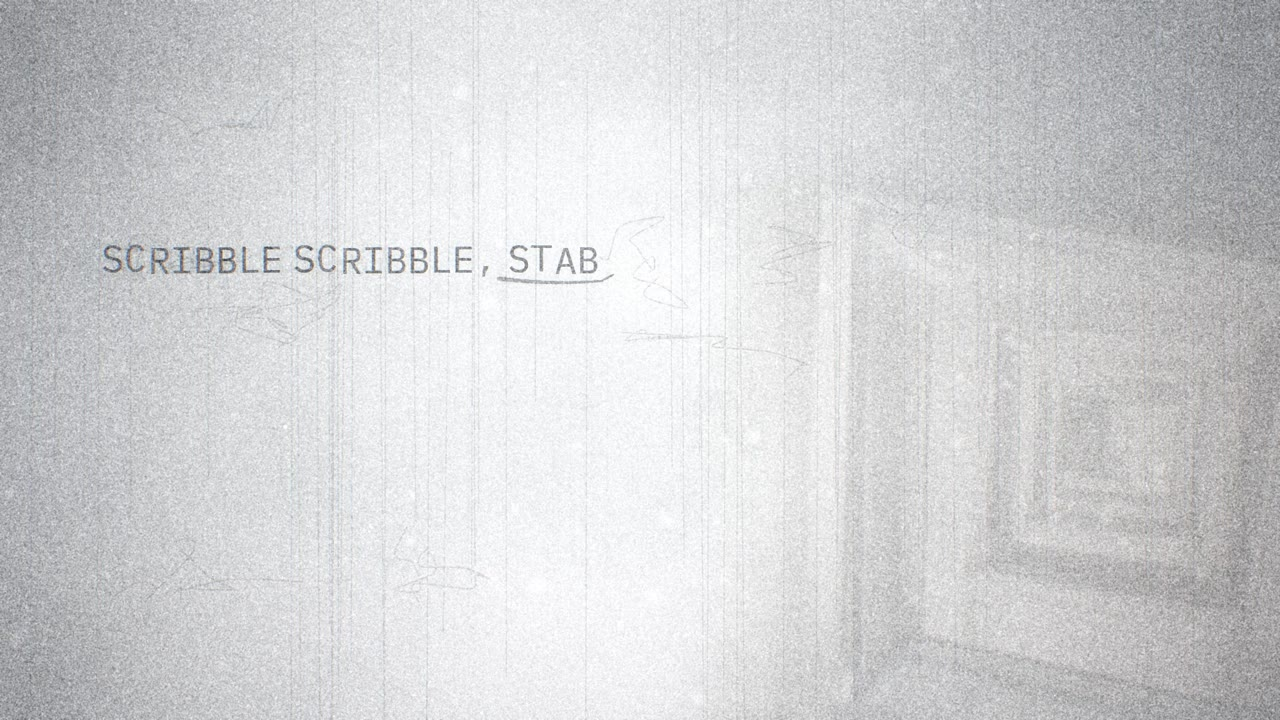
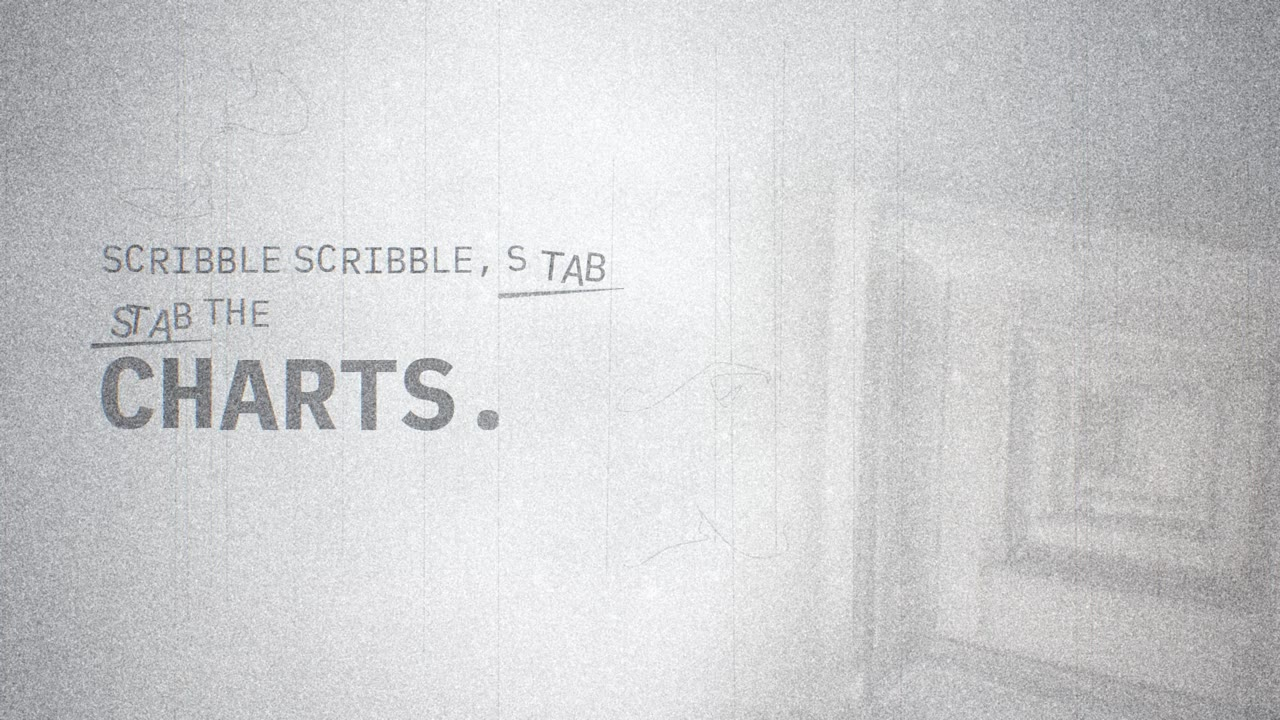
Storyboard: White Coats I with hammered stabs and pencil slashes
Claude-Session: https://claude.ai/code/session_013aPae8dR11r7xw8o95d9Yi

diff --git a/storyboard/index.html b/storyboard/index.html
@@ -150,7 +150,7 @@ ol.steps li::marker { font: 600 0.85rem var(--mono); color: var(--ink-2); }
   </video>
   <figcaption><b>White Coats I</b>
     <span class="tc">1:57.1 → 2:31.8 · bars 34–43</span>
-    <span class="note">Revised: &#x27;We&#x27;ve&#x27; now waits for its real entry (2:00.2, after the coats hold &#x27;said&#x27;); each &#x27;stab&#x27; strikes a hard pencil underline beneath the typed STAB, left there like an annotation; in &#x27;We&#x27;ll find out how lost she really is&#x27; LOST is now the held word; &#x27;with time&#x27; has no comma, so the overstruck second &#x27;with time...&#x27; ends on its ellipsis. Unchanged: the coats never move (typed on, still, blinked out); FOUND / LOST and SAFE / NICE pairs; ANYTHING, FIND; her tally surfaces during &#x27;with time&#x27;. <a href="renders/white_coats_i_contact.jpg">Contact sheet</a></span></figcaption>
+    <span class="note">Revised: &#x27;We&#x27;ve&#x27; now waits for its real entry (2:00.2, after the coats hold &#x27;said&#x27;); each &#x27;stab&#x27; is hammered on out of line with the orderly &#x27;scribble scribble&#x27; (letters knocked askew, landing out of rhythm) and a straight pencil slash is struck beneath it, left there like an annotation; in &#x27;We&#x27;ll find out how lost she really is&#x27; LOST is now the held word; &#x27;with time&#x27; has no comma, so the overstruck second &#x27;with time...&#x27; ends on its ellipsis. Unchanged: the coats never move (typed on, still, blinked out); FOUND / LOST and SAFE / NICE pairs; ANYTHING, FIND; her tally surfaces during &#x27;with time&#x27;. <a href="renders/white_coats_i_contact.jpg">Contact sheet</a></span></figcaption>
 </figure>
 <figure class="render" id="render-break_i">
   <video controls playsinline preload="metadata" poster="renders/break_i_poster.jpg" width="1280" height="720">
@@ -378,9 +378,9 @@ ol.steps li::marker { font: 600 0.85rem var(--mono); color: var(--ink-2); }
       <h3>White Coats I</h3><a class="fref" href="#frame-B">Style frame B</a></header>
     <p class="lyr">The white coats said:</p>
     <dl>
-      <dt>Picture</dt><dd>Cold, bright, humming. The coats never move: their words are typed on and stay perfectly still, against her drift. Every “scribble” scrawls through the emulsion; every “stab” strikes a hard pencil underline beneath the typed word, left there like an annotation. While they say “with time” her tally marks surface: their time is her count.</dd>
+      <dt>Picture</dt><dd>Cold, bright, humming. The coats never move: their words are typed on and stay perfectly still, against her drift. Every “scribble” scrawls through the emulsion; every “stab” is hammered on out of line with the orderly scribbles, letters knocked askew, and a pencil slash is struck beneath it, left there like an annotation. While they say “with time” her tally marks surface: their time is her count.</dd>
       <dt>Type</dt><dd>Typed monospace caps. FOUND / LOST and SAFE / NICE set against each other; LOST, ANYTHING and FIND held large; “with time with time...” typed over itself like a typewriter overstrike.</dd>
-      <dt>Sync</dt><dd>Underlines struck on the exact stab attacks; scrawls on the scribbles; nothing pulses on the beat.</dd>
+      <dt>Sync</dt><dd>Stabs hammered on and slashed on the exact stab attacks; scrawls on the scribbles; nothing pulses on the beat.</dd>
     </dl>
   </div>
 </article>
